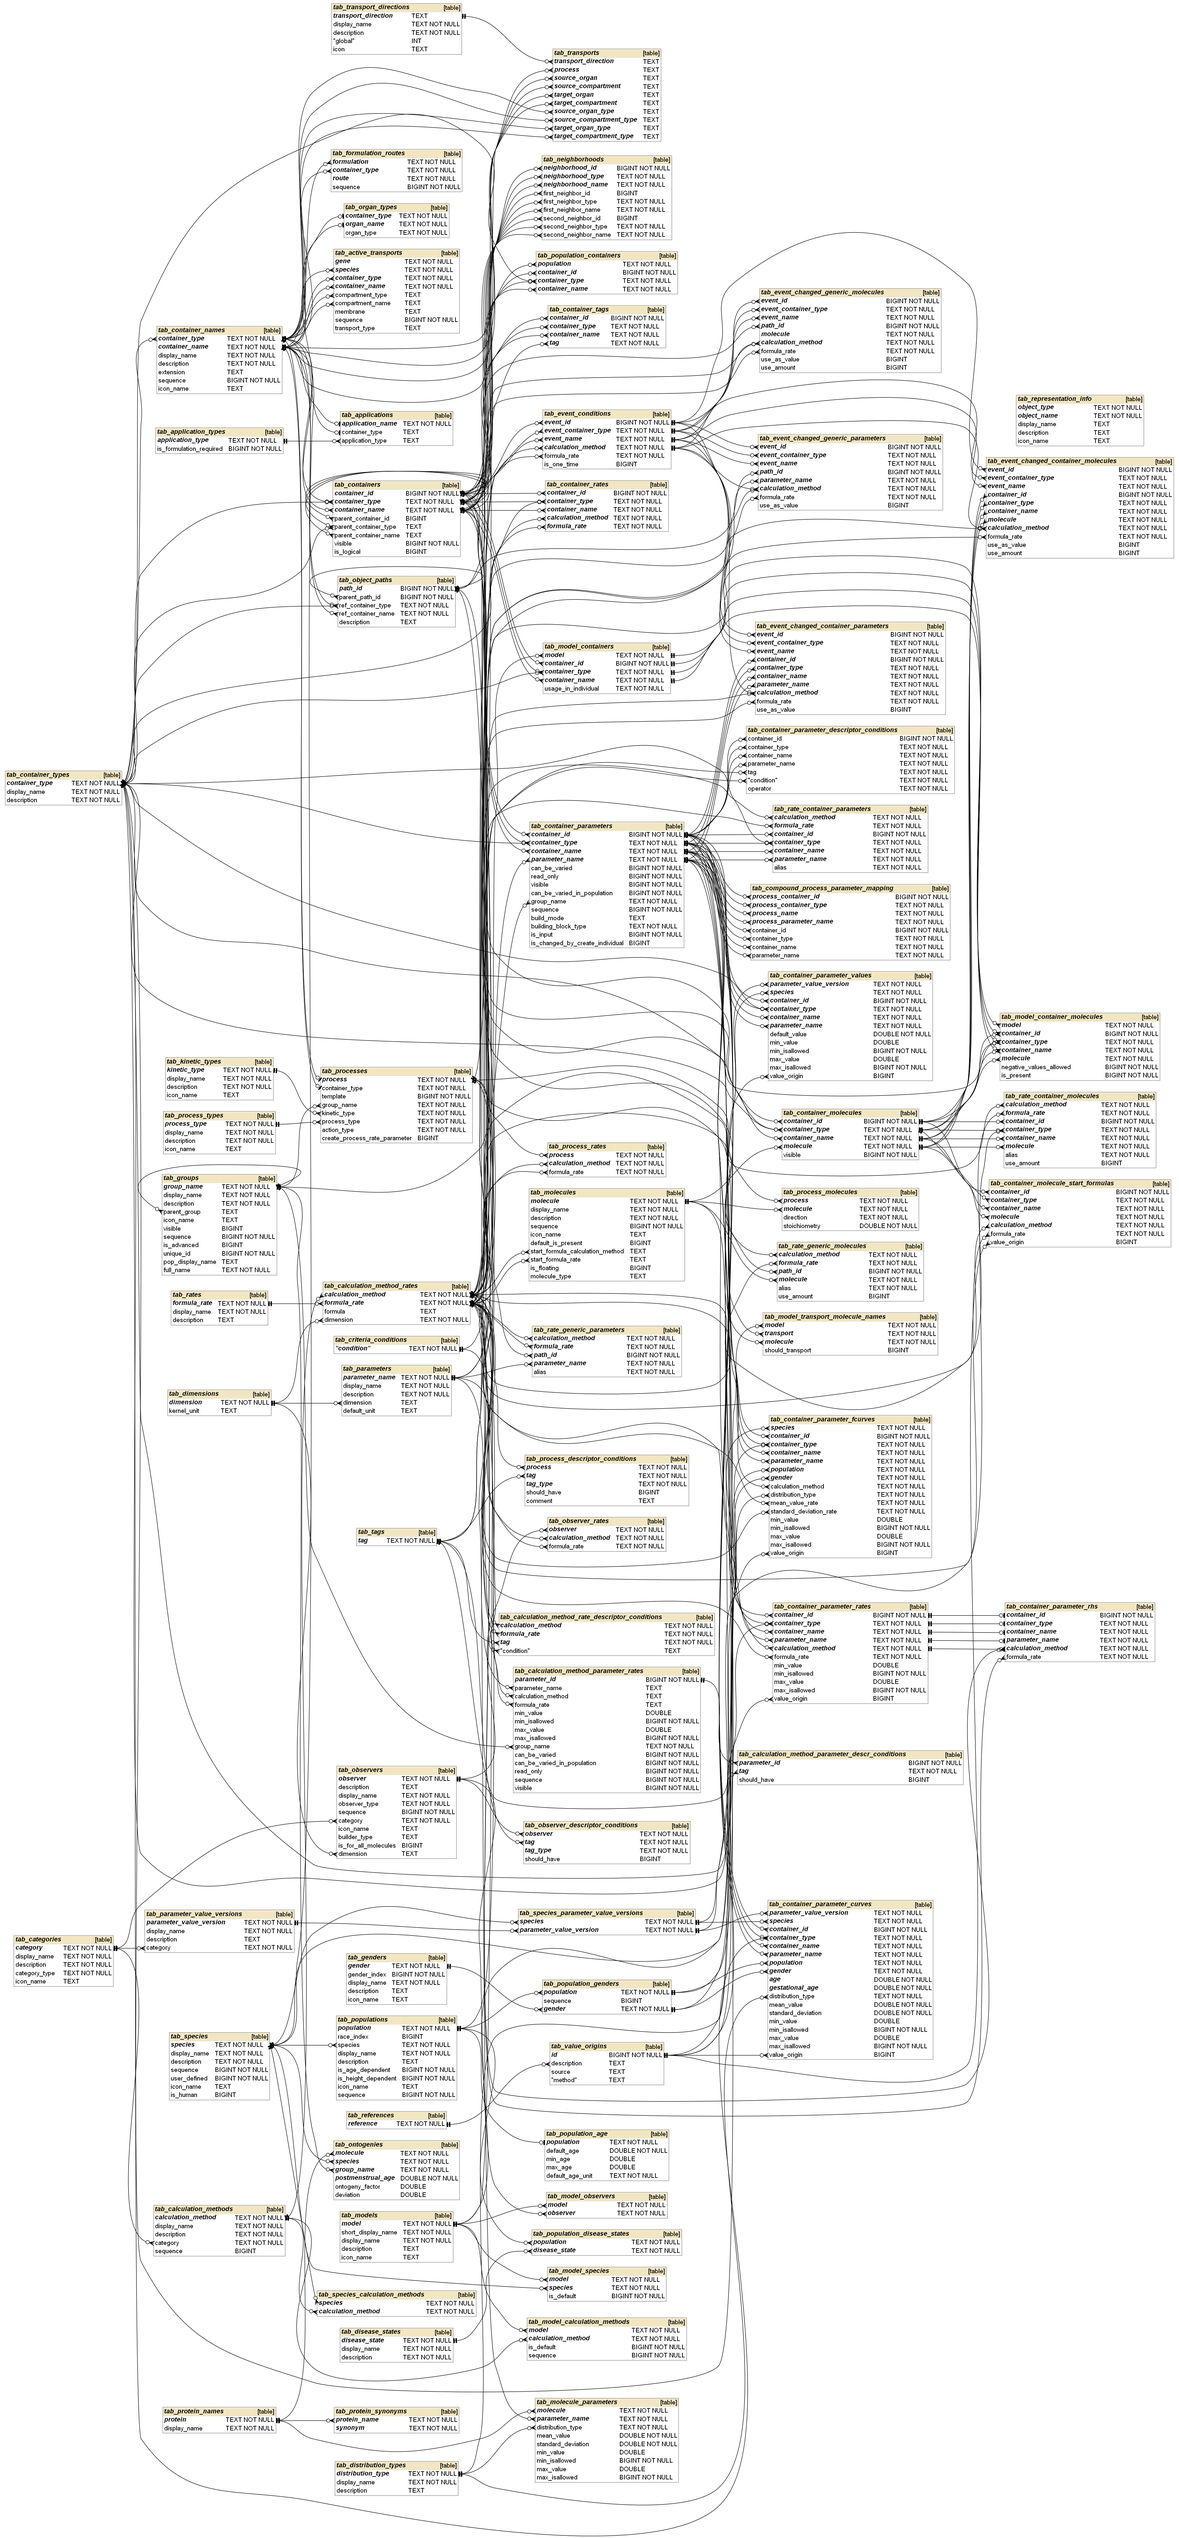
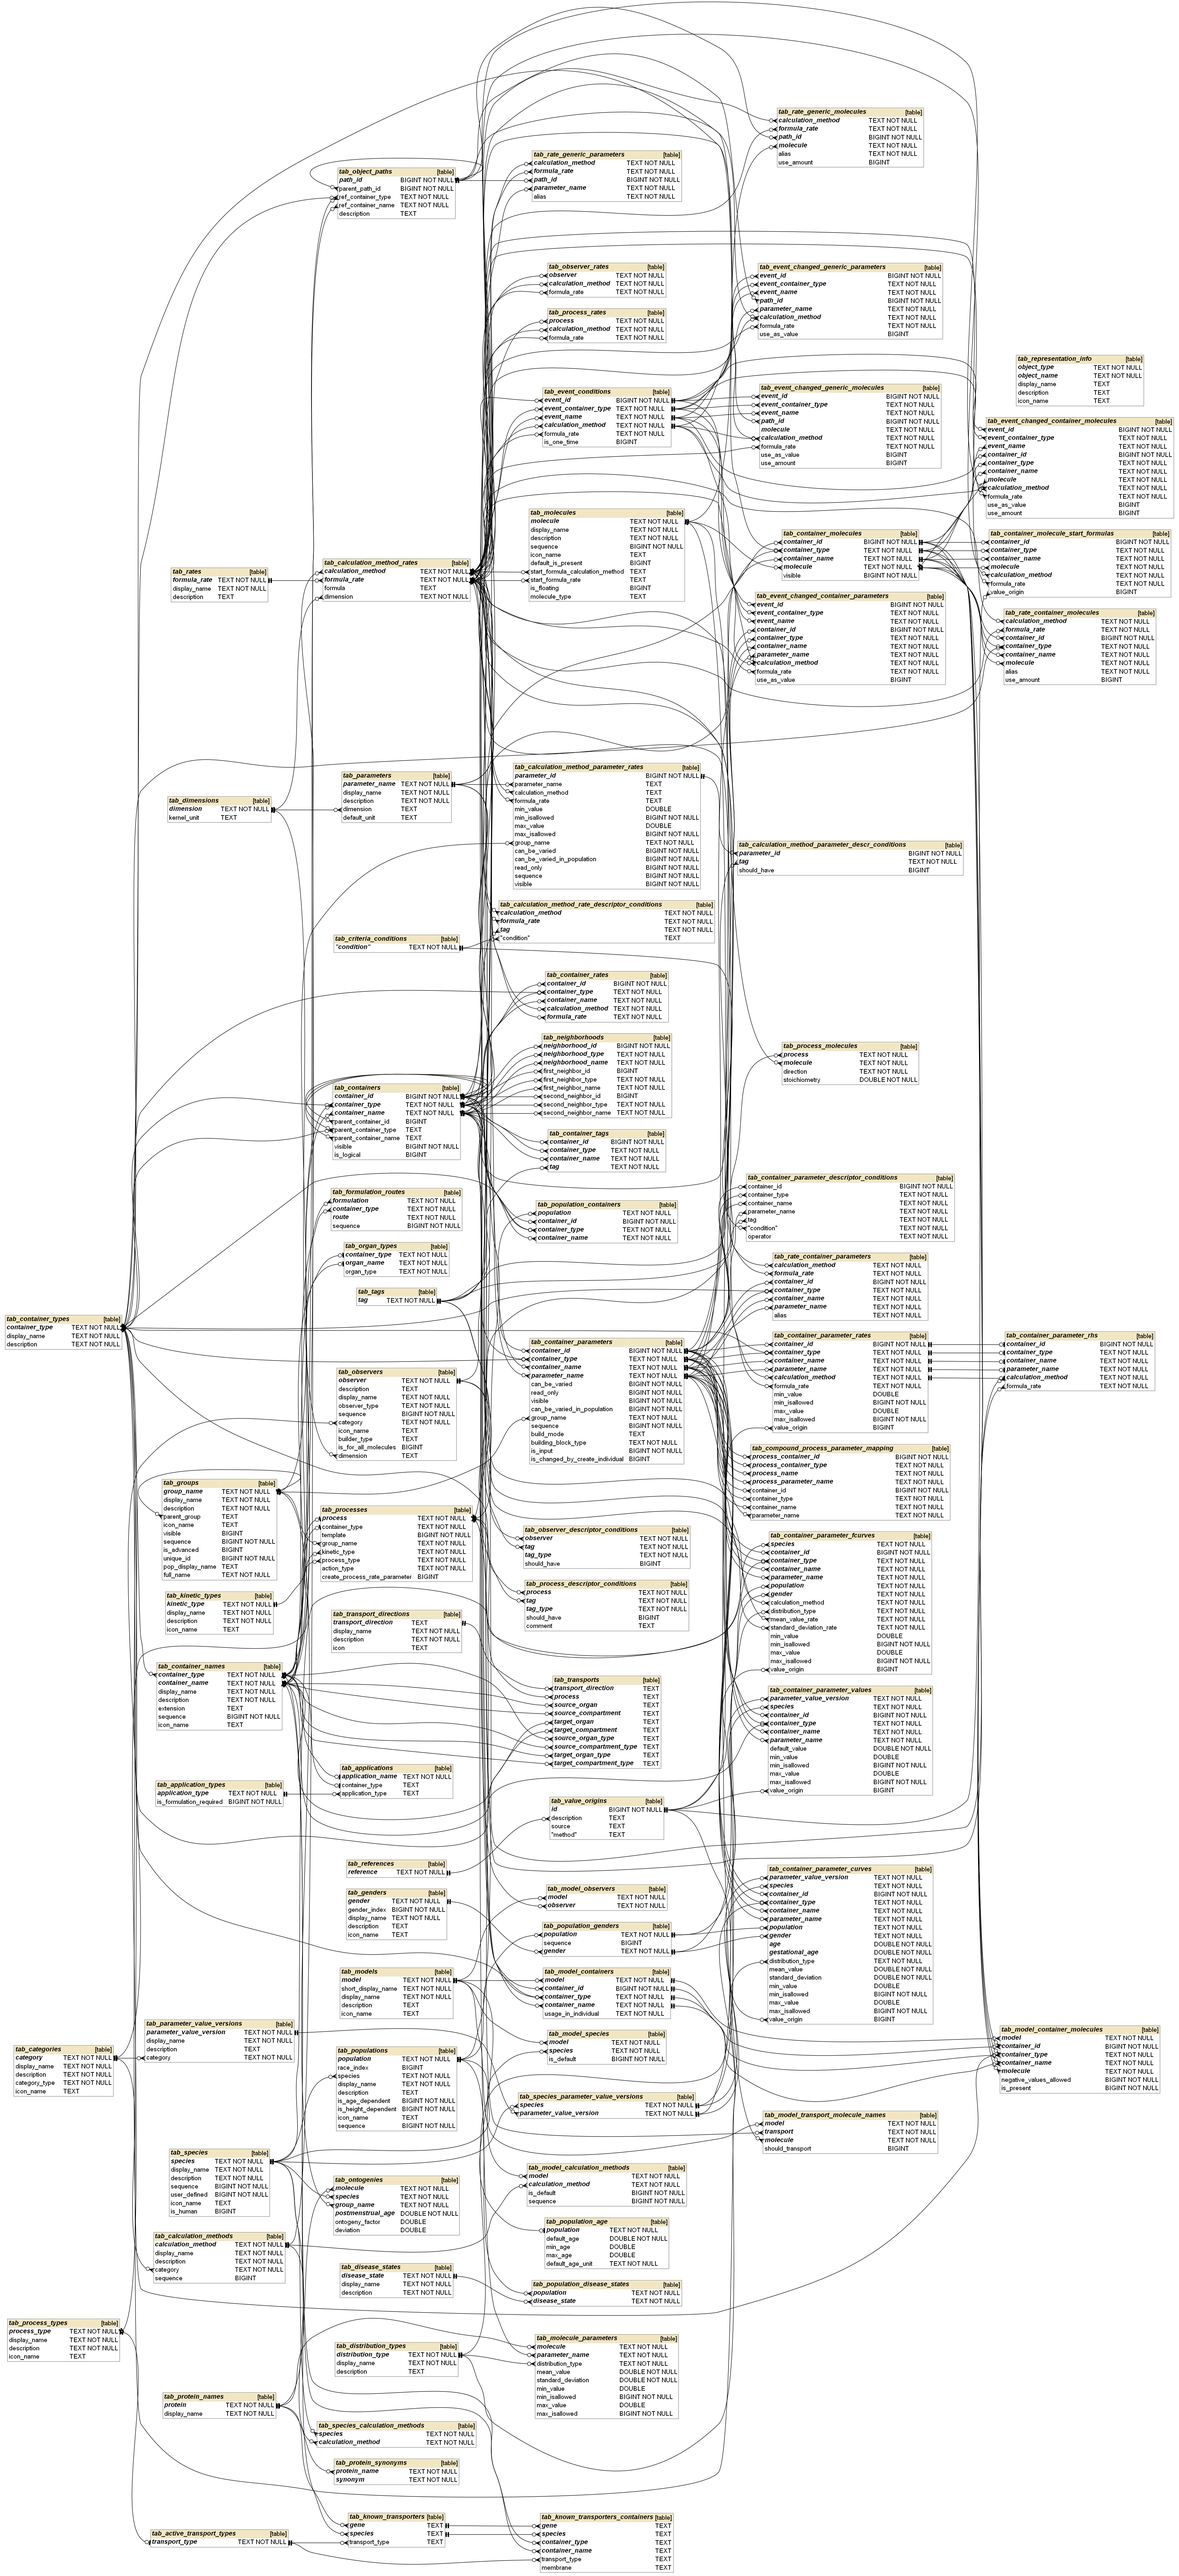
Updated schema images; added image generation script

diff --git a/PKSim-DataBase/DB.md b/PKSim-DataBase/DB.md
@@ -85,8 +85,6 @@ A **container** is a model entity that can have children. In the context of PK-S
 
 Processes are defined as containers with `container_type="PROCESS"` and must be inserted into **tab_container_names** first; once done they can be inserted into **tab_processes** and further process-specific tables.
 
-**TODO: add tab_containers to the picture**
-
 ![](images/overview_processes.png)
 
 
@@ -326,6 +324,10 @@ One of the reasons for introducing calculation methods and parameter value versi
 ## Value origins
 
 ![](images/overview_value_origins.png)
+
+## Representation Info
+
+![](images/overview_representation_info.png)
 
 ## Enumerations
 
